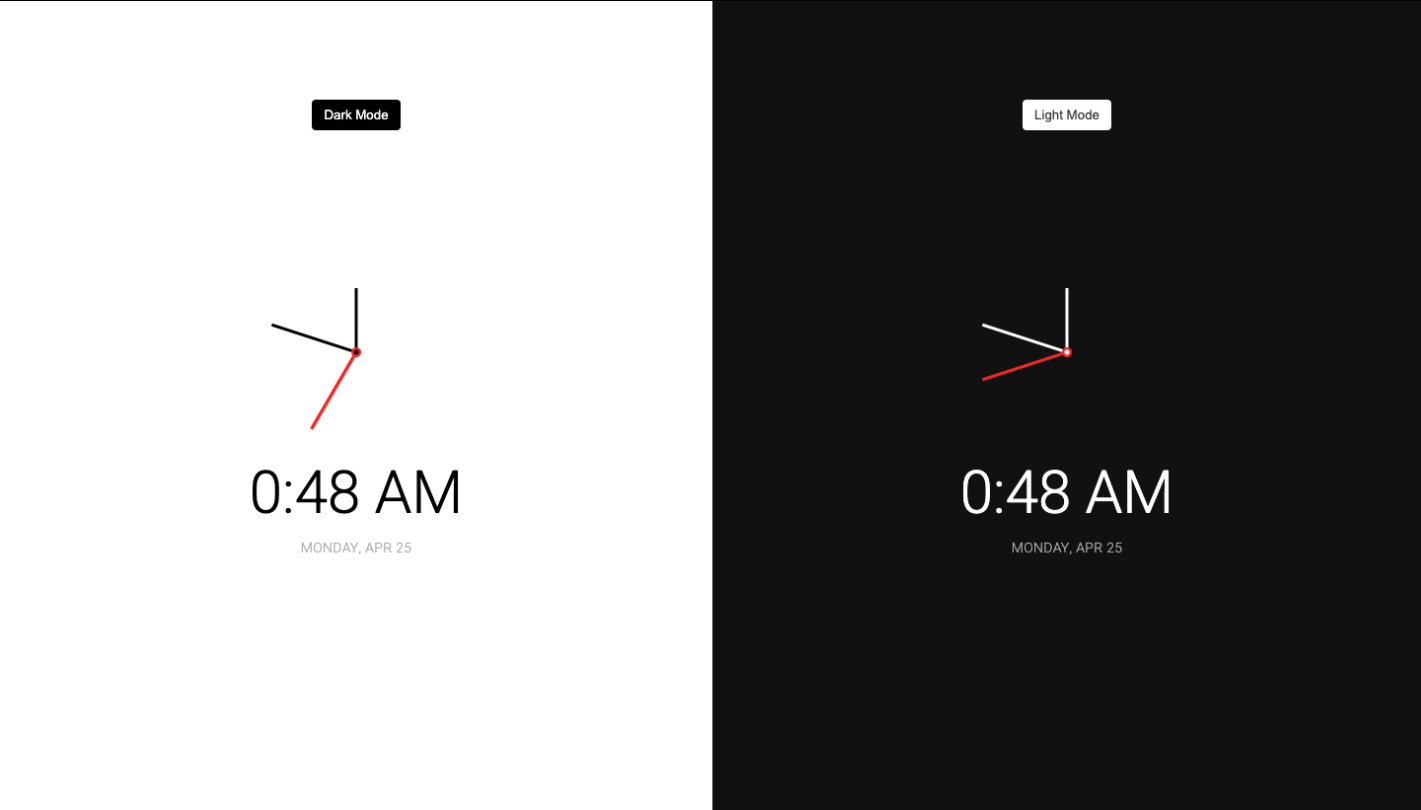
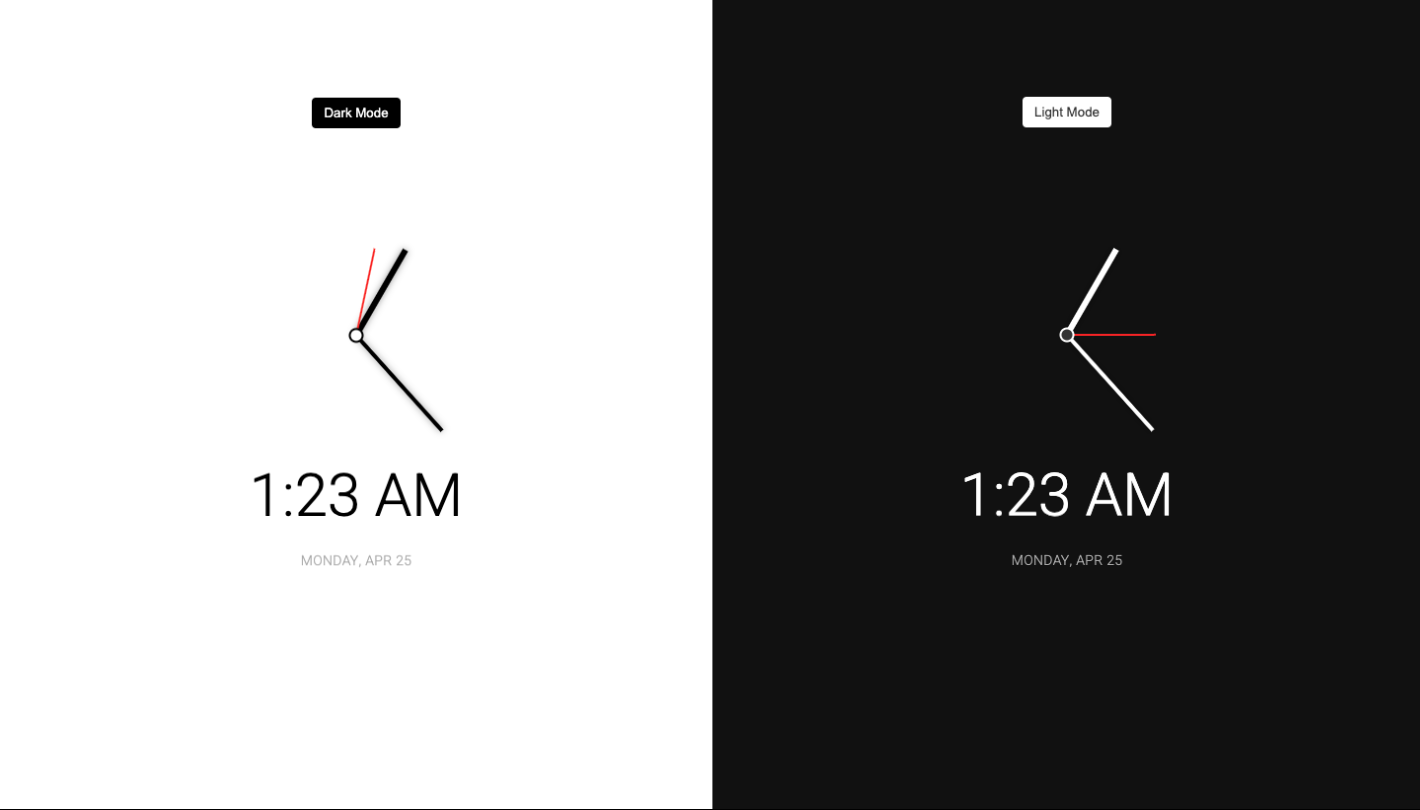
19-theme-clock-fixed

diff --git a/19-theme-clock/style.css b/19-theme-clock/style.css
@@ -65,40 +65,35 @@ body {
   position: absolute;
   top: 50%;
   left: 50%;
-  height: 50px;
-  width: 3px;
   transform-origin: bottom center;
-  transition: all 0.5s ease-in;
 }
 
 .needle.hour {
+  height: 100px;
+  width: 6px;
   transform: translate(-50%, -100%) rotate(0deg);
+  box-shadow: 0 0 7px 0 rgba(0, 0, 0, 0.4);
 }
 .needle.minute {
-  transform: translate(-50%, -100%) rotate(0deg);
-  height: 90px;
+  height: 130px;
+  width: 4px;
+  transform: translate(-50%, -100%) rotate(90deg);
+  box-shadow: 0 0 7px 0 rgba(0, 0, 0, 0.4);
 }
 .needle.second {
-  transform: translate(-50%, -100%) rotate(0deg);
+  height: 95px;
+  width: 2px;
+  transform: translate(-50%, -100%) rotate(180deg);
   height: 90px;
   background-color: #e74c3c;
+  border-radius: 4px;
 }
 
 .center-point {
-  background-color: #e74c3c;
-  width: 10px;
-  height: 10px;
-  position: absolute;
-  top: 50%;
-  left: 50%;
-  transform: translate(-50%, -50%);
-  border-radius: 50%;
-}
-.center-point::after {
-  content: '';
-  background-color: var(--primary-color);
-  width: 5px;
-  height: 5px;
+  background-color: var(--secondary-color);
+  border: 2px solid var(--primary-color);
+  width: 15px;
+  height: 15px;
   position: absolute;
   top: 50%;
   left: 50%;
@@ -107,10 +102,12 @@ body {
 }
 
 .time {
+  margin-top: 20px;
   font-size: 60px;
 }
 
 .date {
+  margin-top: 10px;
   color: #aaa;
   font-size: 14px;
   letter-spacing: 0.3px;
